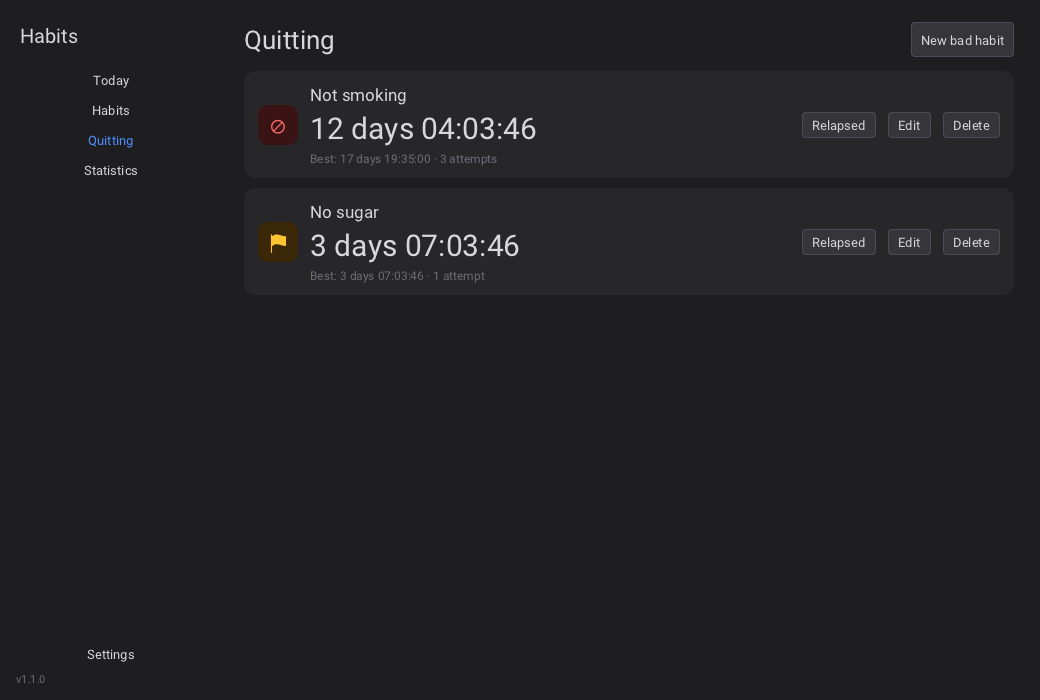
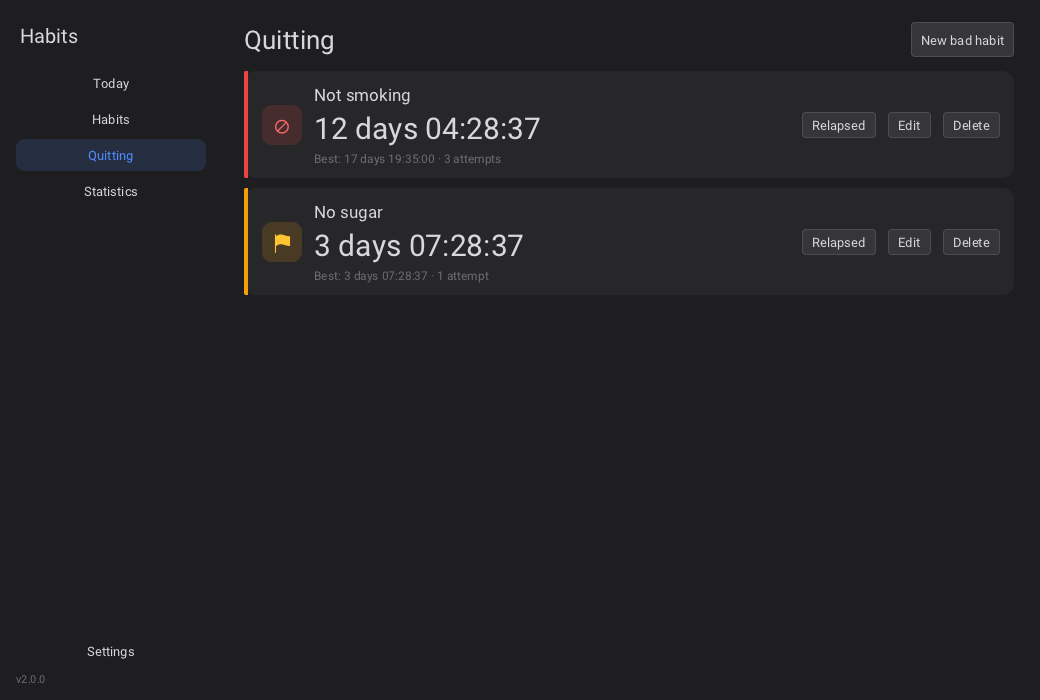
Polish the UI
- sidebar entries sit in rounded pills and the current screen is highlighted
- every habit card gets a strip in its own colour and a weekly progress bar
  in the same colour
- statistics numbers are coloured, the heatmap has weekday labels and a legend
- Settings is grouped into Appearance / Data / About rows
- destructive Delete buttons are red
- an empty Today offers a New habit button

Screenshots in docs/ refreshed.

Changed region(s): [[0.0, 0.09, 0.5231, 0.3], [0.2154, 0.27, 0.5231, 0.42], [0.0923, 0.93, 0.1231, 0.96]]

diff --git a/src/desktop/main.c b/src/desktop/main.c
@@ -41,6 +41,7 @@ typedef struct {
     Rid window;
     Rid content;
     Rid nav[SCREEN_COUNT];
+    Rid nav_bg[SCREEN_COUNT];
 
     Screen screen;
     int32_t date;
@@ -206,6 +207,34 @@ static Rid ui_card(Rid *content) {
     return border;
 }
 
+/* A card with a coloured strip on the left, in the habit's colour. */
+static Rid ui_card_acc(const char *hex, Rid *content) {
+    float r, g, b;
+    hex_to_rgb(hex, &r, &g, &b);
+    float pr, pg, pb, pa;
+    Rtheme_get_color(R_COLOR_PANEL, &pr, &pg, &pb, &pa);
+
+    Rid outer = Rwidget_create(R_WIDGET_BORDER);
+    Rborder_set_background(outer, pr, pg, pb, 1.0f);
+    Rborder_set_corner_radius(outer, 12.0f, 12.0f, 12.0f, 12.0f);
+
+    Rid row = ui_hbox(0.0f);
+    Rwidget_add_child(outer, row);
+
+    Rid strip = Rwidget_create(R_WIDGET_BORDER);
+    Rwidget_set_size(strip, 4.0f, 0.0f);
+    Rborder_set_background(strip, r, g, b, 1.0f);
+    Rborder_set_corner_radius(strip, 12.0f, 0.0f, 0.0f, 12.0f);
+    Rwidget_add_child(row, strip);
+
+    Rid inner = ui_hbox(12.0f);
+    Rslot_set_padding(inner, 14.0f, 12.0f, 14.0f, 12.0f);
+    Rslot_set_fill(inner, 1.0f);
+    Rwidget_add_child(row, inner);
+    *content = inner;
+    return outer;
+}
+
 static Rid ui_icon_badge(const char *glyph, const char *hex) {
     float r, g, b;
     hex_to_rgb(hex, &r, &g, &b);
@@ -252,8 +281,15 @@ static void on_nav(Rid button, void *ud) {
     rebuild();
 }
 
-static Rid nav_button(const char *text, Screen screen) {
-    return ui_flat_button(text, on_nav, (void *)(intptr_t)screen);
+static Rid nav_button(const char *text, Screen screen, int index) {
+    Rid bg = Rwidget_create(R_WIDGET_BORDER);
+    Rborder_set_corner_radius(bg, 9.0f, 9.0f, 9.0f, 9.0f);
+    Rborder_set_padding(bg, 10.0f, 3.0f, 10.0f, 3.0f);
+    Rborder_set_background(bg, 0.0f, 0.0f, 0.0f, 0.0f);
+    Rid button = ui_flat_button(text, on_nav, (void *)(intptr_t)screen);
+    Rwidget_add_child(bg, button);
+    g_app.nav_bg[index] = bg;
+    return bg;
 }
 
 /* ---------- today screen ---------- */
@@ -328,12 +364,23 @@ static Rid habit_row(const Habit *h) {
         snprintf(meta, sizeof meta, "%d/%d this week", done, quota);
 
     Rid col;
-    Rid card = ui_card(&col);
+    Rid card = ui_card_acc(h->color, &col);
     add_center(col, ui_icon_badge(icon_glyph(h->icon), h->color));
 
-    Rid text = ui_vbox(2.0f);
+    Rid text = ui_vbox(3.0f);
     Rwidget_add_child(text, ui_label(h->name, 16.0f, 1));
     Rwidget_add_child(text, ui_muted(meta, 12.0f));
+    if (quota > 0) {
+        Rid bar = Rwidget_create(R_WIDGET_PROGRESSBAR);
+        Rwidget_set_size(bar, 130.0f, 4.0f);
+        float value = (float)done / (float)quota;
+        Rprogress_bar_set_value(bar, value > 1.0f ? 1.0f : value);
+        float hr, hg, hb;
+        hex_to_rgb(h->color, &hr, &hg, &hb);
+        Rwidget_set_color(bar, R_COLOR_ACCENT, hr, hg, hb, 1.0f);
+        Rslot_set_valign(bar, R_VALIGN_CENTER);
+        Rwidget_add_child(text, bar);
+    }
     add_center(col, text);
     Rwidget_add_child(col, ui_spacer());
 
@@ -417,7 +464,10 @@ static void build_today(Rid root) {
     Rwidget_add_child(scroll, list);
 
     if (n == 0) {
-        Rwidget_add_child(list, ui_muted("Nothing planned for this day.", 14.0f));
+        Rid empty = ui_vbox(8.0f);
+        Rwidget_add_child(empty, ui_muted("Nothing planned for this day.", 14.0f));
+        Rwidget_add_child(empty, ui_button("New habit", on_new_habit, NULL));
+        Rwidget_add_child(list, empty);
     }
     for (size_t i = 0; i < n; i++) Rwidget_add_child(list, habit_row(items[i]));
     free(items);
@@ -470,7 +520,7 @@ static void build_quitting(Rid root) {
         if (q->archived) continue;
 
         Rid content;
-        Rid card = ui_card(&content);
+        Rid card = ui_card_acc(q->color, &content);
         add_center(content, ui_icon_badge(icon_glyph(q->icon), q->color));
 
         Rid col = ui_vbox(2.0f);
@@ -952,7 +1002,7 @@ static void build_habits(Rid root) {
         if (h->archived) continue;
         any = 1;
         Rid content;
-        Rid card = ui_card(&content);
+        Rid card = ui_card_acc(h->color, &content);
         add_center(content, ui_icon_badge(icon_glyph(h->icon), h->color));
         Rid col = ui_vbox(2.0f);
         Rwidget_add_child(col, ui_label(h->name, 15.0f, 1));
@@ -964,6 +1014,7 @@ static void build_habits(Rid root) {
         Rid edit = ui_button("Edit", on_edit_habit, (void *)(intptr_t)h->id);
         Rid arch = ui_button("Archive", on_archive_habit, (void *)(intptr_t)h->id);
         Rid del = ui_button("Delete", on_delete_habit, (void *)(intptr_t)h->id);
+        Rwidget_set_color(del, R_COLOR_TEXT, 0.94f, 0.38f, 0.38f, 1.0f);
         add_center(content, edit);
         add_center(content, arch);
         add_center(content, del);
@@ -980,7 +1031,7 @@ static void build_habits(Rid root) {
             const Habit *h = &g_app.db.habits[i];
             if (!h->archived) continue;
             Rid content;
-            Rid card = ui_card(&content);
+            Rid card = ui_card_acc(h->color, &content);
             add_center(content, ui_icon_badge(icon_glyph(h->icon), h->color));
             Rid col = ui_vbox(2.0f);
             Rwidget_add_child(col, ui_label(h->name, 15.0f, 1));
@@ -1039,16 +1090,18 @@ static void on_stats_period(Rid combo, int index, void *ud) {
     rebuild();
 }
 
-static Rid stat_card(const char *value, const char *label) {
-    float r, g, b, a;
-    Rtheme_get_color(R_COLOR_PANEL, &r, &g, &b, &a);
+static Rid stat_card(const char *value, const char *label, float vr, float vg, float vb) {
+    float pr, pg, pb, pa;
+    Rtheme_get_color(R_COLOR_PANEL, &pr, &pg, &pb, &pa);
     Rid border = Rwidget_create(R_WIDGET_BORDER);
     Rborder_set_padding(border, 16.0f, 12.0f, 16.0f, 12.0f);
-    Rborder_set_background(border, r, g, b, 1.0f);
+    Rborder_set_background(border, pr, pg, pb, 1.0f);
     Rborder_set_corner_radius(border, 12.0f, 12.0f, 12.0f, 12.0f);
     Rid col = ui_vbox(2.0f);
     Rwidget_add_child(border, col);
-    Rwidget_add_child(col, ui_label(value, 26.0f, 1));
+    Rid big = ui_label(value, 26.0f, 1);
+    Rlabel_set_color(big, vr, vg, vb, 1.0f);
+    Rwidget_add_child(col, big);
     Rwidget_add_child(col, ui_muted(label, 12.0f));
     Rslot_set_fill(border, 1.0f);
     return border;
@@ -1117,9 +1170,9 @@ static void build_stats(Rid root) {
         snprintf(buf3, sizeof buf3, "—");
 
     Rid cards = ui_hbox(10.0f);
-    Rwidget_add_child(cards, stat_card(buf, "Current streak"));
-    Rwidget_add_child(cards, stat_card(buf2, "Best streak"));
-    Rwidget_add_child(cards, stat_card(buf3, "Completion"));
+    Rwidget_add_child(cards, stat_card(buf, "Current streak", 0.31f, 0.55f, 1.0f));
+    Rwidget_add_child(cards, stat_card(buf2, "Best streak", 0.22f, 0.78f, 0.45f));
+    Rwidget_add_child(cards, stat_card(buf3, "Completion", 0.66f, 0.42f, 0.95f));
     Rwidget_add_child(root, cards);
 
     Rid heat = Rwidget_create(R_WIDGET_CUSTOM);
@@ -1132,8 +1185,39 @@ static void build_stats(Rid root) {
     Rtheme_get_color(R_COLOR_PANEL, &pr, &pg, &pb, &pa);
     Rborder_set_background(heat_wrap, pr, pg, pb, 1.0f);
     Rborder_set_corner_radius(heat_wrap, 12.0f, 12.0f, 12.0f, 12.0f);
-    Rwidget_add_child(heat_wrap, heat);
+    Rid hm_row = ui_hbox(6.0f);
+    Rid days_col = ui_vbox(3.0f);
+    static const char *day_labels[] = {"Mon", "Tue", "Wed", "Thu", "Fri", "Sat", "Sun"};
+    for (int i = 0; i < 7; i++) {
+        Rid d = ui_muted(day_labels[i], 9.0f);
+        Rwidget_set_size(d, 26.0f, 16.0f);
+        Rwidget_add_child(days_col, d);
+    }
+    Rslot_set_valign(days_col, R_VALIGN_TOP);
+    Rwidget_add_child(hm_row, days_col);
+    Rslot_set_valign(heat, R_VALIGN_TOP);
+    Rwidget_add_child(hm_row, heat);
+    Rwidget_add_child(heat_wrap, hm_row);
     Rwidget_add_child(root, heat_wrap);
+
+    Rid legend = ui_hbox(14.0f);
+    struct { float r, g, b; const char *label; } entries[] = {
+        {0.31f, 0.55f, 1.0f, "done"},
+        {0.96f, 0.62f, 0.04f, "skipped"},
+        {0.90f, 0.30f, 0.30f, "missed"},
+    };
+    for (int i = 0; i < 3; i++) {
+        Rid item = ui_hbox(4.0f);
+        Rid sw = Rwidget_create(R_WIDGET_BORDER);
+        Rwidget_set_size(sw, 10.0f, 10.0f);
+        Rborder_set_background(sw, entries[i].r, entries[i].g, entries[i].b, 0.66f);
+        Rborder_set_corner_radius(sw, 3.0f, 3.0f, 3.0f, 3.0f);
+        Rslot_set_valign(sw, R_VALIGN_CENTER);
+        Rwidget_add_child(item, sw);
+        Rwidget_add_child(item, ui_muted(entries[i].label, 11.0f));
+        Rwidget_add_child(legend, item);
+    }
+    Rwidget_add_child(root, legend);
 }
 
 static void on_export(Rid button, void *ud) {
@@ -1165,36 +1249,50 @@ static void on_export(Rid button, void *ud) {
     show_message(ok ? "Export" : "Export failed", msg);
 }
 
+static void settings_section(Rid col, const char *title) {
+    Rid label = ui_muted(title, 11.0f);
+    Rslot_set_padding(label, 0.0f, 12.0f, 0.0f, 0.0f);
+    Rwidget_add_child(col, label);
+}
+
+static Rid setting_row(Rid col, const char *title, const char *value) {
+    Rid row = ui_hbox(8.0f);
+    Rwidget_add_child(row, ui_label(title, 13.0f, 0));
+    Rwidget_add_child(row, ui_spacer());
+    if (value && *value) Rwidget_add_child(row, ui_muted(value, 12.0f));
+    Rwidget_add_child(col, row);
+    return row;
+}
+
 static void build_settings(Rid root) {
     Rwidget_add_child(root, ui_label("Settings", 26.0f, 1));
 
     Rid content;
     Rid card = ui_card(&content);
-    Rid col = ui_vbox(10.0f);
+    Rid col = ui_vbox(6.0f);
     add_center(content, col);
-    Rwidget_add_child(col, ui_label("Data", 13.0f, 1));
-    Rwidget_add_child(col, ui_muted(g_app.data_dir, 13.0f));
-    Rwidget_add_child(col, ui_label("Version", 13.0f, 1));
-    Rwidget_add_child(col, ui_muted("habits " APP_VERSION, 13.0f));
-    Rwidget_add_child(col, ui_label("Theme", 13.0f, 1));
-    Rid theme_row = ui_hbox(8.0f);
-    Rwidget_add_child(theme_row, ui_muted(g_app.light ? "Light" : "Dark", 13.0f));
-    Rwidget_add_child(theme_row,
-                      ui_button(g_app.light ? "Use dark theme" : "Use light theme",
-                                on_toggle_theme, NULL));
-    Rwidget_add_child(col, theme_row);
 
-    Rwidget_add_child(col, ui_label("Animations", 13.0f, 1));
-    Rid anim_row = ui_hbox(8.0f);
-    Rwidget_add_child(anim_row, ui_muted(g_app.animations ? "On" : "Off", 13.0f));
+    settings_section(col, "APPEARANCE");
+    Rid theme_row = setting_row(col, "Theme", g_app.light ? "Light" : "Dark");
+    Rwidget_add_child(theme_row,
+                      ui_button(g_app.light ? "Use dark" : "Use light", on_toggle_theme, NULL));
+
+    Rid anim_row = setting_row(col, "Animations", g_app.animations ? "On" : "Off");
     Rwidget_add_child(anim_row,
-                      ui_button(g_app.animations ? "Turn off animations" : "Turn on animations",
-                                on_toggle_animations, NULL));
-    Rwidget_add_child(col, anim_row);
-    Rid export_row = ui_hbox(8.0f);
+                      ui_button(g_app.animations ? "Turn off" : "Turn on", on_toggle_animations,
+                                NULL));
+
+    settings_section(col, "DATA");
+    Rid path = ui_muted(g_app.data_dir, 12.0f);
+    Rlabel_set_wrap(path, R_TRUE);
+    Rwidget_add_child(col, path);
+    Rid export_row = ui_hbox(0.0f);
     Rwidget_add_child(export_row, ui_button("Export data", on_export, NULL));
     Rwidget_add_child(col, export_row);
-    Rwidget_add_child(col, ui_label("About", 13.0f, 1));
+
+    settings_section(col, "ABOUT");
+    Rid version_row = setting_row(col, "Version", "habits " APP_VERSION);
+    (void)version_row;
     Rwidget_add_child(col,
                       ui_muted("A native client on Raven. The data is a plain JSONL "
                                "file: back it up or move it freely.",
@@ -1257,11 +1355,10 @@ static void build_sidebar(Rid sidebar) {
     static const char *names[SCREEN_COUNT] = {"Today", "Habits", "Quitting", "Statistics",
                                               "Settings"};
     for (int i = 0; i < SCREEN_COUNT; i++) {
-        g_app.nav[i] = nav_button(names[i], (Screen)i);
-        if (i == SCREEN_SETTINGS) {
-            Rwidget_add_child(sidebar, ui_spacer());
-        }
-        Rwidget_add_child(sidebar, g_app.nav[i]);
+        if (i == SCREEN_SETTINGS) Rwidget_add_child(sidebar, ui_spacer());
+        Rid row = nav_button(names[i], (Screen)i, i);
+        g_app.nav[i] = Rwidget_get_child(row, 0);
+        Rwidget_add_child(sidebar, row);
     }
     Rwidget_add_child(sidebar, ui_muted("v" APP_VERSION, 11.0f));
 }
@@ -1269,10 +1366,13 @@ static void build_sidebar(Rid sidebar) {
 static void rebuild(void) {
     for (int i = 0; i < SCREEN_COUNT; i++) {
         if (!g_app.nav[i]) continue;
-        if (i == (int)g_app.screen)
+        if (i == (int)g_app.screen) {
             Rwidget_set_color(g_app.nav[i], R_COLOR_TEXT, 0.31f, 0.55f, 1.0f, 1.0f);
-        else
+            Rborder_set_background(g_app.nav_bg[i], 0.31f, 0.55f, 1.0f, 0.15f);
+        } else {
             Rwidget_clear_color(g_app.nav[i], R_COLOR_TEXT);
+            Rborder_set_background(g_app.nav_bg[i], 0.0f, 0.0f, 0.0f, 0.0f);
+        }
     }
     Rwidget_clear_children(g_app.content);
     switch (g_app.screen) {
